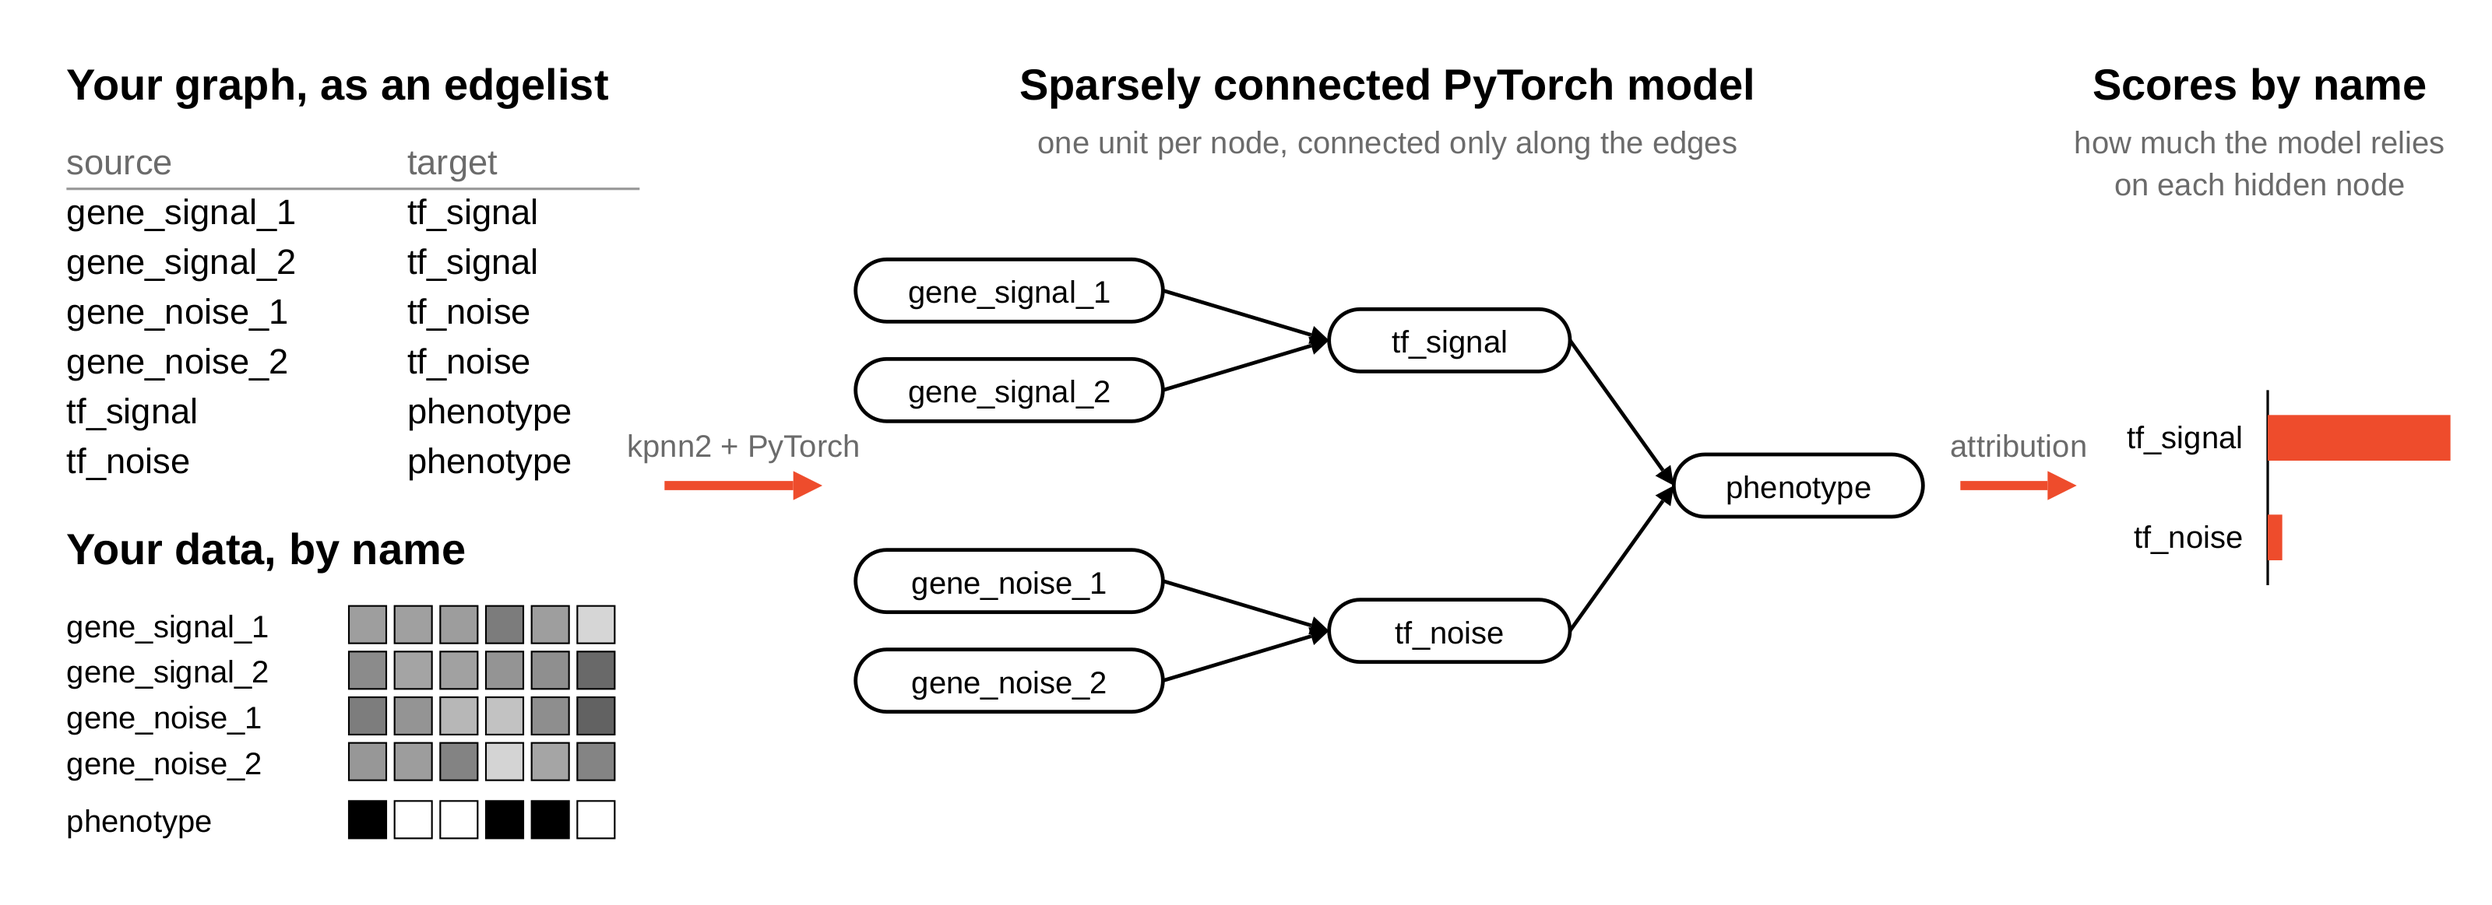
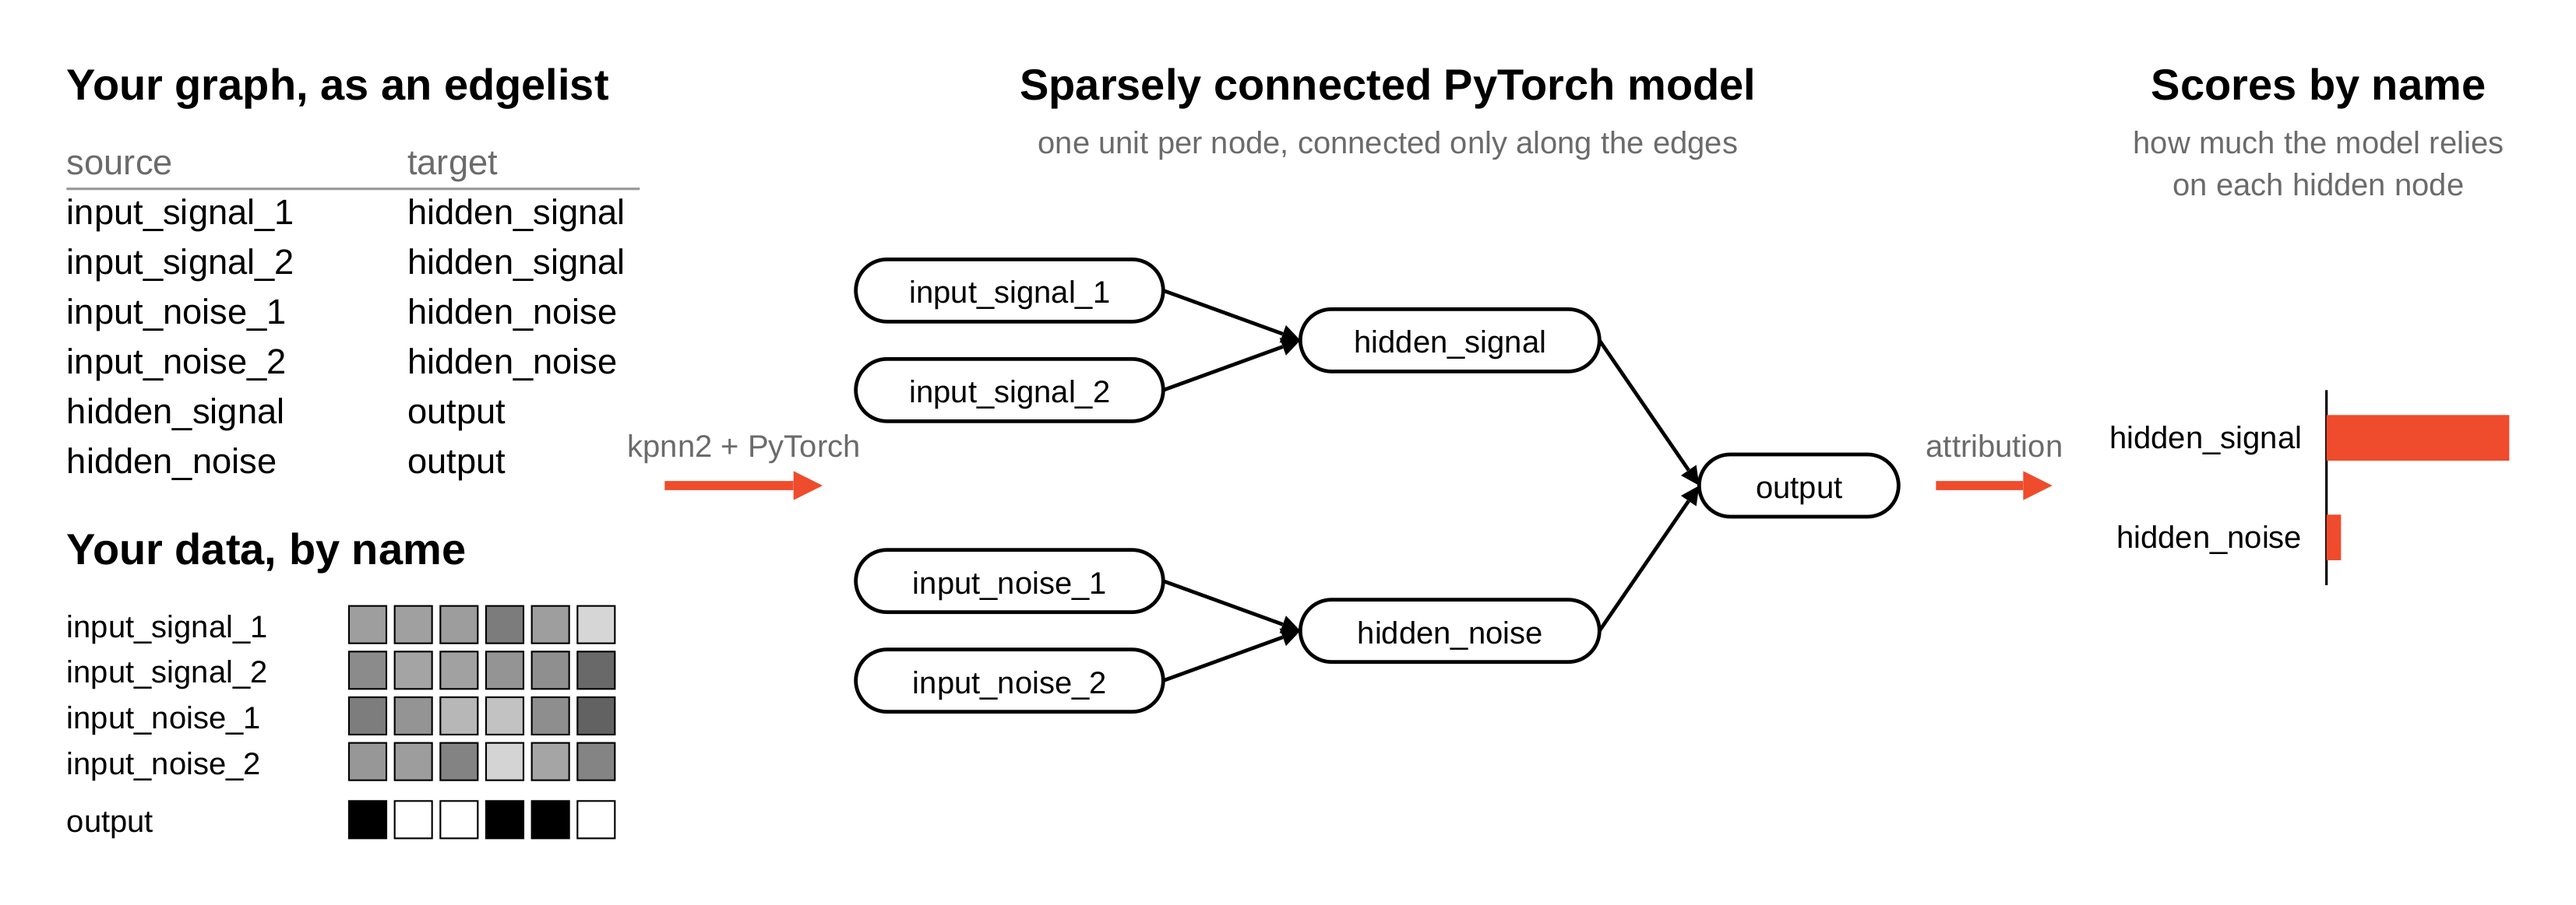
Use domain-agnostic names in the README example
The overview figure and quick start used gene and TF names, which
suggested kpnn2 is biology-only. Generic input/hidden/output names
keep the same sort order, so the printed scores are unchanged.

diff --git a/docs/fig_gen/kpnn2_overview.py b/docs/fig_gen/kpnn2_overview.py
@@ -9,7 +9,7 @@ sparsely connected model in the middle, scores per named node on
 the right. The graph and node names are the README example's,
 and the bar lengths follow the scores that example prints. The
 data cells are texture, not the example's values; only the
-phenotype row follows the example's labelling rule.
+output row follows the example's labelling rule.
 """
 
 import random
@@ -22,7 +22,7 @@ _FONT = "Liberation Sans, sans-serif"
 _PNG_DPI = 384
 
 # User units are PostScript points, so font-size 9 is 9 pt.
-_WIDTH = 600.0
+_WIDTH = 620.0
 _HEIGHT = 218.0
 _TITLE_SIZE = 10.5
 _TEXT_SIZE = 8.5
@@ -35,17 +35,17 @@ _GREY = "#6b6b6b"
 _RULE = "#9a9a9a"
 
 EDGES = [
-    ("gene_signal_1", "tf_signal"),
-    ("gene_signal_2", "tf_signal"),
-    ("gene_noise_1", "tf_noise"),
-    ("gene_noise_2", "tf_noise"),
-    ("tf_signal", "phenotype"),
-    ("tf_noise", "phenotype"),
+    ("input_signal_1", "hidden_signal"),
+    ("input_signal_2", "hidden_signal"),
+    ("input_noise_1", "hidden_noise"),
+    ("input_noise_2", "hidden_noise"),
+    ("hidden_signal", "output"),
+    ("hidden_noise", "output"),
 ]
 # Mean absolute conductance the README example prints.
 SCORES = {
-    "tf_signal": 4.90,
-    "tf_noise": 0.39,
+    "hidden_signal": 4.90,
+    "hidden_noise": 0.39,
 }
 
 # Left column: the edgelist table and the data table.
@@ -61,10 +61,10 @@ _CELL_STEP = 11.0
 _CELLS_X = 84.0
 _N_SAMPLES = 6
 _DATA_ROWS = [
-    "gene_signal_1",
-    "gene_signal_2",
-    "gene_noise_1",
-    "gene_noise_2",
+    "input_signal_1",
+    "input_signal_2",
+    "input_noise_1",
+    "input_noise_2",
 ]
 
 # Middle column: the network, one pill per named node.
@@ -72,43 +72,43 @@ _MODEL_CX = 334.0
 _PILL_H = 15.0
 _INPUT_CX = 243.0
 _INPUT_W = 74.0
-_TF_CX = 349.0
-_TF_W = 58.0
+_HIDDEN_CX = 349.0
+_HIDDEN_W = 72.0
 _OUT_CX = 433.0
-_OUT_W = 60.0
+_OUT_W = 48.0
 _NODE_Y = {
-    "gene_signal_1": 70.0,
-    "gene_signal_2": 94.0,
-    "gene_noise_1": 140.0,
-    "gene_noise_2": 164.0,
-    "tf_signal": 82.0,
-    "tf_noise": 152.0,
-    "phenotype": 117.0,
+    "input_signal_1": 70.0,
+    "input_signal_2": 94.0,
+    "input_noise_1": 140.0,
+    "input_noise_2": 164.0,
+    "hidden_signal": 82.0,
+    "hidden_noise": 152.0,
+    "output": 117.0,
 }
 _NODE_X = {
-    "gene_signal_1": (_INPUT_CX, _INPUT_W),
-    "gene_signal_2": (_INPUT_CX, _INPUT_W),
-    "gene_noise_1": (_INPUT_CX, _INPUT_W),
-    "gene_noise_2": (_INPUT_CX, _INPUT_W),
-    "tf_signal": (_TF_CX, _TF_W),
-    "tf_noise": (_TF_CX, _TF_W),
-    "phenotype": (_OUT_CX, _OUT_W),
+    "input_signal_1": (_INPUT_CX, _INPUT_W),
+    "input_signal_2": (_INPUT_CX, _INPUT_W),
+    "input_noise_1": (_INPUT_CX, _INPUT_W),
+    "input_noise_2": (_INPUT_CX, _INPUT_W),
+    "hidden_signal": (_HIDDEN_CX, _HIDDEN_W),
+    "hidden_noise": (_HIDDEN_CX, _HIDDEN_W),
+    "output": (_OUT_CX, _OUT_W),
 }
 
 # Right column: one bar per named hidden node.
-_BARS_LABEL_X = 540.0
-_BARS_X = 546.0
+_BARS_LABEL_X = 554.0
+_BARS_X = 560.0
 _BAR_MAX = 44.0
 _BAR_H = 11.0
 _BARS_Y = {
-    "tf_signal": 100.0,
-    "tf_noise": 124.0,
+    "hidden_signal": 100.0,
+    "hidden_noise": 124.0,
 }
 
 # Flow arrows between the columns.
 _FLOW_Y = 117.0
 _FLOW_1 = (160.0, 198.0)
-_FLOW_2 = (472.0, 500.0)
+_FLOW_2 = (466.0, 494.0)
 
 
 def _text(
@@ -231,10 +231,10 @@ def _data_table() -> list[str]:
             weight="700",
         ),
     ]
-    rows = [*_DATA_ROWS, "phenotype"]
+    rows = [*_DATA_ROWS, "output"]
     for row, name in enumerate(rows):
         top = _DATA_TOP + _CELL_STEP * row
-        if name == "phenotype":
+        if name == "output":
             top += 3.0
         parts.append(
             _text(
@@ -245,9 +245,9 @@ def _data_table() -> list[str]:
             )
         )
         for sample in range(_N_SAMPLES):
-            if name == "phenotype":
+            if name == "output":
                 # The README example labels a sample 1 when the
-                # two signal genes sum above zero.
+                # two signal inputs sum above zero.
                 label = values[0][sample] + values[1][sample] > 0
                 fill = "#000" if label else "#fff"
             else:

diff --git a/tests/module/test_docs_readme_quick_start.py b/tests/module/test_docs_readme_quick_start.py
@@ -7,8 +7,8 @@ that block's printed output and is compared with what the code
 prints: words exactly, numbers within a small tolerance, so a torch
 release that moves the last digit does not fail the suite. The
 claims around the code are pinned too: the trained model relies on
-``tf_signal`` far more than on ``tf_noise``, and Figure 1 draws the
-scores the page shows.
+``hidden_signal`` far more than on ``hidden_noise``, and Figure 1
+draws the scores the page shows.
 
 The last block imports Captum, which is in the ``dev`` extra.
 """
@@ -39,7 +39,8 @@ _BLOCK = re.compile(
 _NUMBER = re.compile(r"-?\d+(?:\.\d+)?")
 _SCORE_LINE = re.compile(r"^(\w+)\s+(-?\d+\.\d+)$", re.M)
 _ABS_TOL = 0.1
-# The prose says the model relies on tf_signal and not on tf_noise.
+# The prose says the model relies on hidden_signal and not on
+# hidden_noise.
 _MIN_RATIO = 5.0
 
 
@@ -115,10 +116,10 @@ def test_every_block_with_output_shows_what_it_prints(
                 assert want == got, f"block {index}: {want!r} != {got!r}"
 
 
-def test_trained_model_relies_on_tf_signal(printed: list[str]) -> None:
+def test_trained_model_relies_on_hidden_signal(printed: list[str]) -> None:
     scores = _scores(printed[-1])
-    assert set(scores) == {"tf_noise", "tf_signal"}
-    assert scores["tf_signal"] > _MIN_RATIO * scores["tf_noise"]
+    assert set(scores) == {"hidden_noise", "hidden_signal"}
+    assert scores["hidden_signal"] > _MIN_RATIO * scores["hidden_noise"]
 
 
 def test_figure_draws_the_scores_the_page_shows() -> None:

diff --git a/README.md b/README.md
@@ -33,7 +33,7 @@ unit of the network, and each edge becomes a connection, including
 edges that skip layers. Pairs of nodes without an edge stay
 unconnected.
 
-![Left: a six-row edgelist and a data table with one row per gene plus a phenotype row. Middle: the same graph as a network, two signal genes feeding tf_signal and two noise genes feeding tf_noise, both feeding phenotype. Right: the bar for tf_signal is many times longer than the bar for tf_noise.](https://raw.githubusercontent.com/Thomas-Rauter/kpnn2/main/docs/figures/kpnn2_overview.png)
+![Left: a six-row edgelist and a data table with one row per input plus an output row. Middle: the same graph as a network, two signal inputs feeding hidden_signal and two noise inputs feeding hidden_noise, both feeding output. Right: the bar for hidden_signal is many times longer than the bar for hidden_noise.](https://raw.githubusercontent.com/Thomas-Rauter/kpnn2/main/docs/figures/kpnn2_overview.png)
 
 **Figure 1.** You provide a graph and data with named features.
 `kpnn2` turns the graph into sparsely connected PyTorch layers, you
@@ -58,9 +58,9 @@ factors, kinases, and pathways as nodes, for example
 [Fortelny and Bock (2020)](https://doi.org/10.1186/s13059-020-02100-5).
 The idea is not specific to biology: any domain whose entities have
 names and known relationships, such as chemistry, works the same
-way. Figure 1 and the quick start use a small gene-regulation
-example, in which four genes feed two transcription factors that
-feed a phenotype. When each sample is its own graph, use a graph
+way. Figure 1 and the quick start use a small graph with generic
+names, in which four inputs feed two hidden nodes that feed one
+output. When each sample is its own graph, use a graph
 neural network instead; see
 [Why not a GNN?](https://thomas-rauter.github.io/kpnn2/latest/supported/#why-not-a-gnn).
 
@@ -75,10 +75,10 @@ pip install kpnn2
 ## Quick start
 
 This example builds the model in Figure 1. The labels depend only
-on `gene_signal_1` and `gene_signal_2`, so a model that learned
-the task should rely on `tf_signal` and not on `tf_noise`. The
-last step uses Captum (`pip install captum`), which `kpnn2` does
-not depend on.
+on `input_signal_1` and `input_signal_2`, so a model that learned
+the task should rely on `hidden_signal` and not on `hidden_noise`.
+The last step uses Captum (`pip install captum`), which `kpnn2`
+does not depend on.
 
 ### 1. Write the graph as an edgelist
 
@@ -98,12 +98,12 @@ torch.manual_seed(42)
 
 edgelist = pd.DataFrame(
     [
-        ("gene_signal_1", "tf_signal"),
-        ("gene_signal_2", "tf_signal"),
-        ("gene_noise_1", "tf_noise"),
-        ("gene_noise_2", "tf_noise"),
-        ("tf_signal", "phenotype"),
-        ("tf_noise", "phenotype"),
+        ("input_signal_1", "hidden_signal"),
+        ("input_signal_2", "hidden_signal"),
+        ("input_noise_1", "hidden_noise"),
+        ("input_noise_2", "hidden_noise"),
+        ("hidden_signal", "output"),
+        ("hidden_noise", "output"),
     ],
     columns=["source", "target"],
 )
@@ -113,9 +113,9 @@ for layer in spec.layer_nodes:
 ```
 
 ```text
-('gene_noise_1', 'gene_noise_2', 'gene_signal_1', 'gene_signal_2')
-('tf_noise', 'tf_signal')
-('phenotype',)
+('input_noise_1', 'input_noise_2', 'input_signal_1', 'input_signal_2')
+('hidden_noise', 'hidden_signal')
+('output',)
 ```
 
 ### 2. Build the model in PyTorch
@@ -158,20 +158,20 @@ model = nn.Sequential(
 expects, by name, so a table in any column order lines up.
 
 ```python
-genes = [
-    "gene_signal_1",
-    "gene_signal_2",
-    "gene_noise_1",
-    "gene_noise_2",
+input_names = [
+    "input_signal_1",
+    "input_signal_2",
+    "input_noise_1",
+    "input_noise_2",
 ]
 features = pd.DataFrame(
     torch.randn(
         200,
         4,
     ).numpy(),
-    columns=genes,
+    columns=input_names,
 )
-labels = features["gene_signal_1"] + features["gene_signal_2"] > 0
+labels = features["input_signal_1"] + features["input_signal_2"] > 0
 
 col = kpnn2.align_inputs(
     features.columns,
@@ -225,12 +225,12 @@ print(abs(scores).mean("observation").to_pandas().round(2))
 
 ```text
 node
-tf_noise     0.39
-tf_signal    4.90
+hidden_noise     0.39
+hidden_signal    4.90
 dtype: float32
 ```
 
-The trained model relies on `tf_signal`, as the labels require.
+The trained model relies on `hidden_signal`, as the labels require.
 The
 [Feedforward example](https://thomas-rauter.github.io/kpnn2/latest/feedforward-example/)
 goes further, with a held-out test set, input-level attributions,
